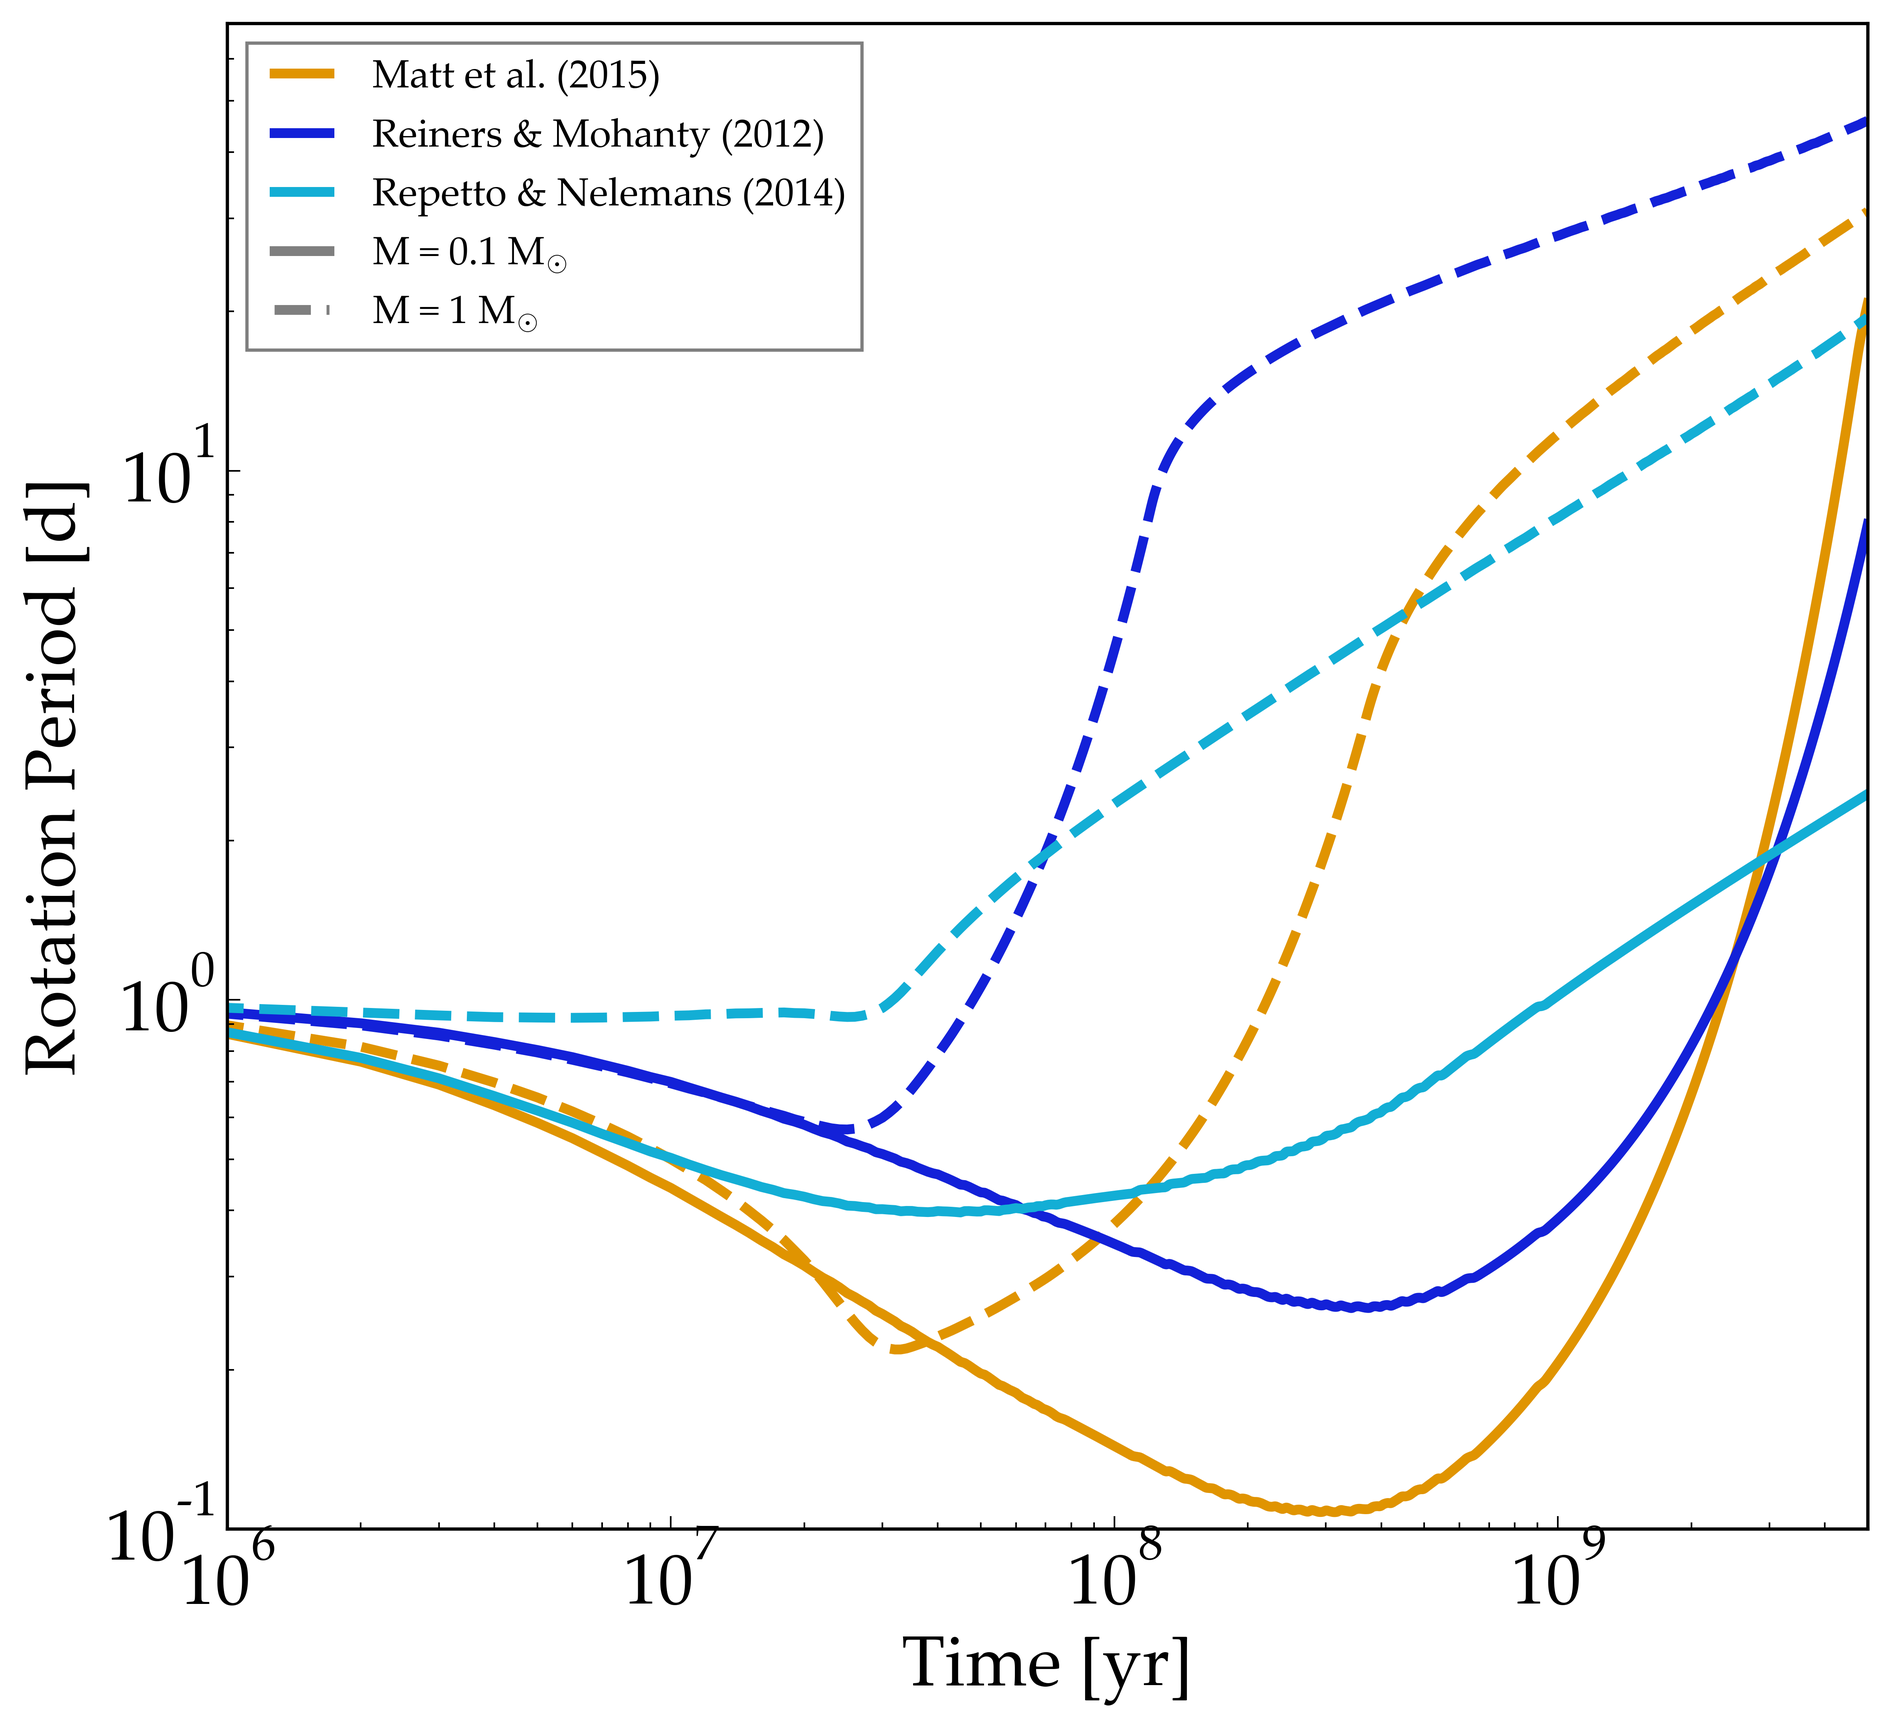
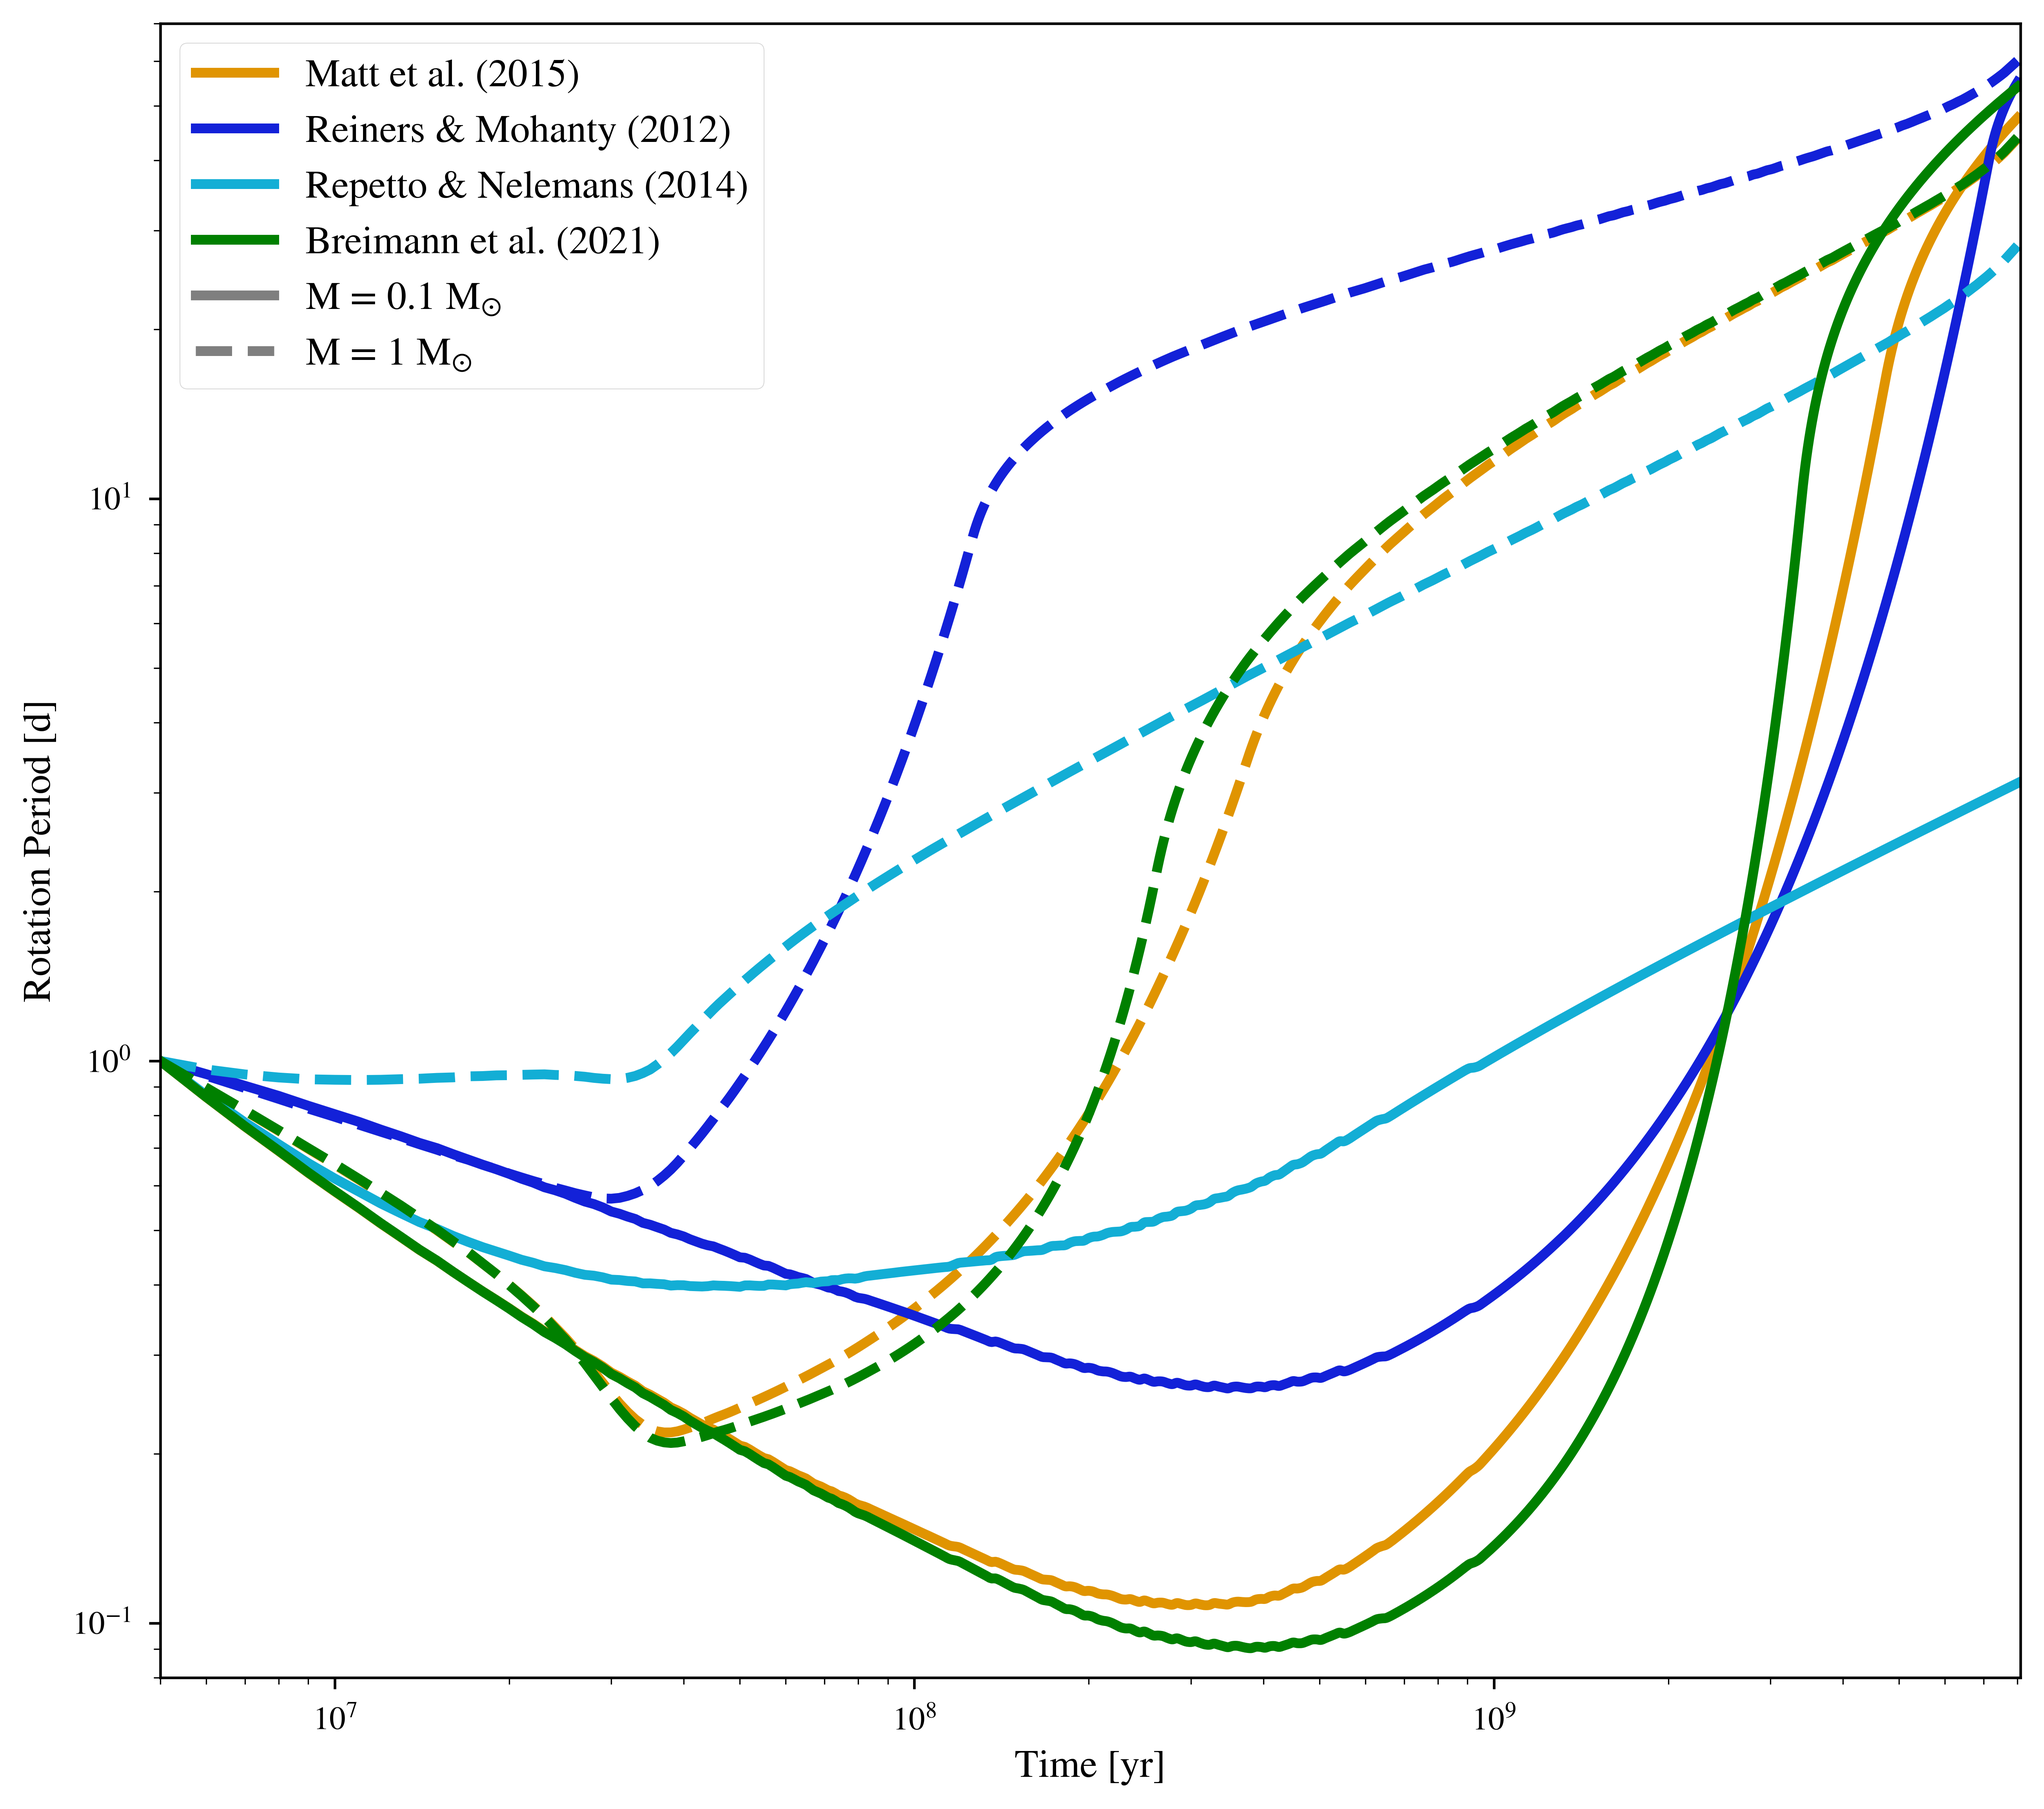
Added Breimann+21 torque to MagneticBraking example and updated plots & docs

diff --git a/examples/MagneticBraking/makeplot.py b/examples/MagneticBraking/makeplot.py
@@ -20,25 +20,28 @@ import vplanet
 # Path hacks
 path = pathlib.Path(__file__).parents[0].absolute()
 sys.path.insert(1, str(path.parents[0]))
-from get_args import get_args
+# from get_args import get_args
 
 # Typical plot parameters that make for pretty plot
 mpl.rcParams["figure.figsize"] = (9, 8)
-mpl.rcParams["font.size"] = 18.0
+mpl.rcParams["font.size"] = 17.0
 
 # Run vplanet
 vplanet.run(path / "vpl.in")
 
+
 ### Magnetic braking validation figure ###
 
-ms = ["a_matt", "a_reiners", "a_sk"]
-gs = ["b_matt", "b_reiners", "b_sk"]
-labels = ["Matt et al. (2015)", "Reiners & Mohanty (2012)", "Repetto & Nelemans (2014)"]
-colors = [vplot.colors.orange, vplot.colors.dark_blue, vplot.colors.pale_blue]
+
+ms = ["a_matt", "a_reiners", "a_sk", "a_breimann"]
+gs = ["b_matt", "b_reiners", "b_sk", "b_breimann"]
+labels = ["Matt et al. (2015)", "Reiners & Mohanty (2012)", "Repetto & Nelemans (2014)", "Breimann et al. (2021)"]
+colors = [vplot.colors.orange, vplot.colors.dark_blue, vplot.colors.pale_blue, "green"]
+startAge = 5e6 # starting age of stars
 
 fig, ax = plt.subplots()
 
-# saOutputOrder Time -TotEn -TotAngMom -Luminosity -Radius Temperature -RotPer -LXUVTot RadGyra
+# saOutputOrder Time -TotAngMom -Luminosity -Radius Temperature -RotPer RadGyra WindTorque RossbyNumber
 
 for ii in range(len(ms)):
     # Load in data
@@ -46,8 +49,8 @@ for ii in range(len(ms)):
     g = np.genfromtxt(path / ("system." + gs[ii] + ".forward"))
 
     # Plot!
-    ax.plot(m[:, 0], m[:, 6], lw=3, ls="-", color=colors[ii])
-    ax.plot(g[:, 0], g[:, 6], lw=3, ls="--", color=colors[ii])
+    ax.plot(m[:, 0]+startAge, m[:, 5], lw=3, ls="-", color=colors[ii])
+    ax.plot(g[:, 0]+startAge, g[:, 5], lw=3, ls="--", color=colors[ii])
 
 # Annotate
 ax.plot(
@@ -69,12 +72,20 @@ ax.plot(
     color=vplot.colors.pale_blue,
     label="Repetto & Nelemans (2014)",
 )
+ax.plot(
+    [500],
+    [500],
+    lw=3,
+    ls="-",
+    color="green",
+    label="Breimann et al. (2021)",
+)
 ax.plot([500], [500], lw=3, ls="-", color="C7", label="M = 0.1 M$_{\odot}$")
 ax.plot([500], [500], lw=3, ls="--", color="C7", label="M = 1 M$_{\odot}$")
 
 # Format plot
-ax.set_xlim(1.0e6, 5.0e9)
-ax.set_ylim(0.1, 70)
+ax.set_xlim(5.0e6, 8.1e9)
+ax.set_ylim(0.08, 70)
 ax.set_xscale("log")
 ax.set_yscale("log")
 ax.set_xlabel("Time [yr]")
@@ -82,10 +93,118 @@ ax.set_ylabel("Rotation Period [d]")
 ax.legend(loc="best", fontsize=12)
 
 # Save the figure
-ext = get_args().ext
+# ext = get_args().ext
+ext = 'png'
 fig.savefig(path / f"MagneticBraking.{ext}", bbox_inches="tight", dpi=600)
 
+
+### Comparison between Matt+15 and Breimann+21 only ####
+
+
+ms = ["a_matt", "a_mattslow", "a_breimann", "a_breimannslow"]
+gs = ["b_matt", "b_mattslow", "b_breimann", "b_breimannslow"]
+labels = ["Matt et al. (2015)", "Matt et al. (2015)", "Breimann et al. (2021)", "Breimann et al. (2021)"]
+colors = [vplot.colors.orange, vplot.colors.orange, "green", "green"]
+startAge = 5e6 # starting age of stars
+
+fig, ax = plt.subplots()
+
+# saOutputOrder Time -TotAngMom -Luminosity -Radius Temperature -RotPer RadGyra WindTorque RossbyNumber
+
+for ii in range(len(ms)):
+    # Load in data
+    m = np.genfromtxt(path / ("system." + ms[ii] + ".forward"))
+    g = np.genfromtxt(path / ("system." + gs[ii] + ".forward"))
+
+    # Plot!
+    ax.plot(m[:, 0]+startAge, m[:, 5], lw=3, ls="-", color=colors[ii])
+    ax.plot(g[:, 0]+startAge, g[:, 5], lw=3, ls="--", color=colors[ii])
+
+# Annotate
+ax.plot(
+    [500], [500], lw=3, ls="-", color=vplot.colors.orange, label="Matt et al. (2015)"
+)
+ax.plot(
+    [500],
+    [500],
+    lw=3,
+    ls="-",
+    color="green",
+    label="Breimann et al. (2021)",
+)
+ax.plot([500], [500], lw=3, ls="-", color="C7", label="M = 0.1 M$_{\odot}$")
+ax.plot([500], [500], lw=3, ls="--", color="C7", label="M = 1 M$_{\odot}$")
+
+# Format plot
+ax.set_xlim(5.0e6, 8.1e9)
+ax.set_ylim(0.08, 70)
+ax.set_xscale("log")
+ax.set_yscale("log")
+ax.set_xlabel("Time [yr]")
+ax.set_ylabel("Rotation Period [d]")
+ax.legend(loc="best", fontsize=12)
+
+# Save the figure
+# ext = get_args().ext
+ext = 'png'
+fig.savefig(path / f"MagneticBraking_MBOnly.{ext}", bbox_inches="tight", dpi=600)
+
+
+### Plot comparing the wind braking torques (similar to Breimann+21 Fig 10) ####
+
+
+ms = ["a_matt", "a_breimann"]
+gs = ["b_matt", "b_breimann"]
+labels = ["Matt et al. (2015)", "Breimann et al. (2021)"]
+colors = [vplot.colors.orange, "green"]
+startIDX = 30 # output line to start plotting
+solarRo = 2.1 # approximate Solar Rossby No for CS11 turnover timescale
+
+fig, ax = plt.subplots()
+
+# saOutputOrder Time -TotAngMom -Luminosity -Radius Temperature -RotPer RadGyra WindTorque RossbyNumber
+
+for ii in range(len(ms)):
+    # Load in data
+    m = np.genfromtxt(path / ("system." + ms[ii] + ".forward"))
+    g = np.genfromtxt(path / ("system." + gs[ii] + ".forward"))
+
+    # Plot!
+    ax.plot(m[startIDX:, 8]/solarRo, m[startIDX:, 7], lw=3, ls="-", color=colors[ii])
+    ax.plot(g[startIDX:, 8]/solarRo, g[startIDX:, 7], lw=3, ls="--", color=colors[ii])
+
+# Annotate
+ax.plot(
+    [500], [500], lw=3, ls="-", color=vplot.colors.orange, label="Matt et al. (2015)"
+)
+ax.plot(
+    [500],
+    [500],
+    lw=3,
+    ls="-",
+    color="green",
+    label="Breimann et al. (2021)",
+)
+ax.plot([500], [500], lw=3, ls="-", color="C7", label="M = 0.1 M$_{\odot}$")
+ax.plot([500], [500], lw=3, ls="--", color="C7", label="M = 1 M$_{\odot}$")
+
+# Format plot
+ax.set_xlim(.0005, 2)
+ax.set_ylim(1e20, 1e28)
+ax.set_xscale("log")
+ax.set_yscale("log")
+ax.set_xlabel("Rossby Number  [solar units]")
+ax.set_ylabel("Stellar Wind Torque  [Joules]")
+ax.legend(loc="best", fontsize=12)
+
+# Save the figure
+# ext = get_args().ext
+ext = 'png'
+fig.savefig(path / f"MagneticBrakingTorques.{ext}", bbox_inches="tight", dpi=600)
+
+
 ### Now make Kepler comparison figure ###
+
 
 # Typical plot parameters that make for pretty plots
 mpl.rcParams["font.size"] = 17

diff --git a/examples/MagneticBraking/README.rst b/examples/MagneticBraking/README.rst
@@ -11,12 +11,18 @@ Rotational evolution of stars due to magnetic effects.
 **Author**            David Fleming
 **Modules**           STELLAR
 **Approx. runtime**   2 minutes
+**Updates**           '24 Aug, Sean Matt
 ===================   ============
 
 Rotation period evolution for 0.1 and 1.0 solar-mass stars due to stellar
-evolution and magnetic braking. This example shows how the three available
-magnetic braking laws (`Reiners & Mohanty [2012] <https://ui.adsabs.harvard.edu/abs/2012ApJ...746...43R/abstract>`_, `Repetto & Nelemans [2014] <https://ui.adsabs.harvard.edu/abs/2014MNRAS.444..542R/abstract>`_,
-and `Matt et al. [2015] <https://ui.adsabs.harvard.edu/abs/2015ApJ...799L..23M/abstract>`_) impact the rotation period.
+evolution and magnetic braking. This example shows how the four available
+magnetic braking laws 
+(`Reiners & Mohanty [2012] <https://ui.adsabs.harvard.edu/abs/2012ApJ...746...43R/abstract>`_, 
+`Repetto & Nelemans [2014] <https://ui.adsabs.harvard.edu/abs/2014MNRAS.444..542R/abstract>`_,
+`Matt et al. [2015] <https://ui.adsabs.harvard.edu/abs/2015ApJ...799L..23M/abstract>`_, 
+and the "standard model" of
+`Breimann et al. [2021] <https://ui.adsabs.harvard.edu/abs/2021ApJ...913...75B/abstract>`_) 
+impact the rotation period.
 
 This example also demonstrates how the VPLanet implementation of the `Matt et al. [2015] <https://ui.adsabs.harvard.edu/abs/2015ApJ...799L..23M/abstract>`_
 magnetic braking model can be used to reproduce the upper enveloped of the Kepler
@@ -27,7 +33,7 @@ To run this example
 
 .. code-block:: bash
 
-    python makeplot.py <pdf | png>
+    python makeplot.py
 
 
 Expected output
@@ -37,8 +43,31 @@ Expected output
    :width: 100%
    :align: center
 
-Rotation period evolution of 0.1 and 1 solar-mass stars due to stellar evolution
-(`Baraffe et al. 2015 <https://ui.adsabs.harvard.edu/abs/2015A%26A...577A..42B/abstract>`_) and the three magnetic braking laws.
+Rotation period evolution of 0.1 and 1 solar-mass stars, due to structural evolution
+(`Baraffe et al. 2015 <https://ui.adsabs.harvard.edu/abs/2015A%26A...577A..42B/abstract>`_) 
+and the four magnetic braking laws.
+
+
+.. figure:: MagneticBraking_MBOnly.png
+   :width: 100%
+   :align: center
+
+Rotation period evolution of 0.1 and 1 solar-mass stars due to structural evolution
+(`Baraffe et al. 2015 <https://ui.adsabs.harvard.edu/abs/2015A%26A...577A..42B/abstract>`_) 
+and the two more modern magnetic braking laws, 
+for two different initial rotation rates.
+
+
+.. figure:: MagneticBrakingTorques.png
+   :width: 100%
+   :align: center
+
+Stellar wind torque versus Rossby number of 0.1 and 1 solar-mass stars during their evolution
+(`Baraffe et al. 2015 <https://ui.adsabs.harvard.edu/abs/2015A%26A...577A..42B/abstract>`_), 
+comparing two magnetic braking laws (approximately following fig. 10 in
+`Breimann et al. 2021 <https://ui.adsabs.harvard.edu/abs/2021ApJ...913...75B/abstract>`_,
+but here for different masses and here including the effects stellar structural evolution).
+
 
 .. figure:: kepler.png
    :width: 100%
